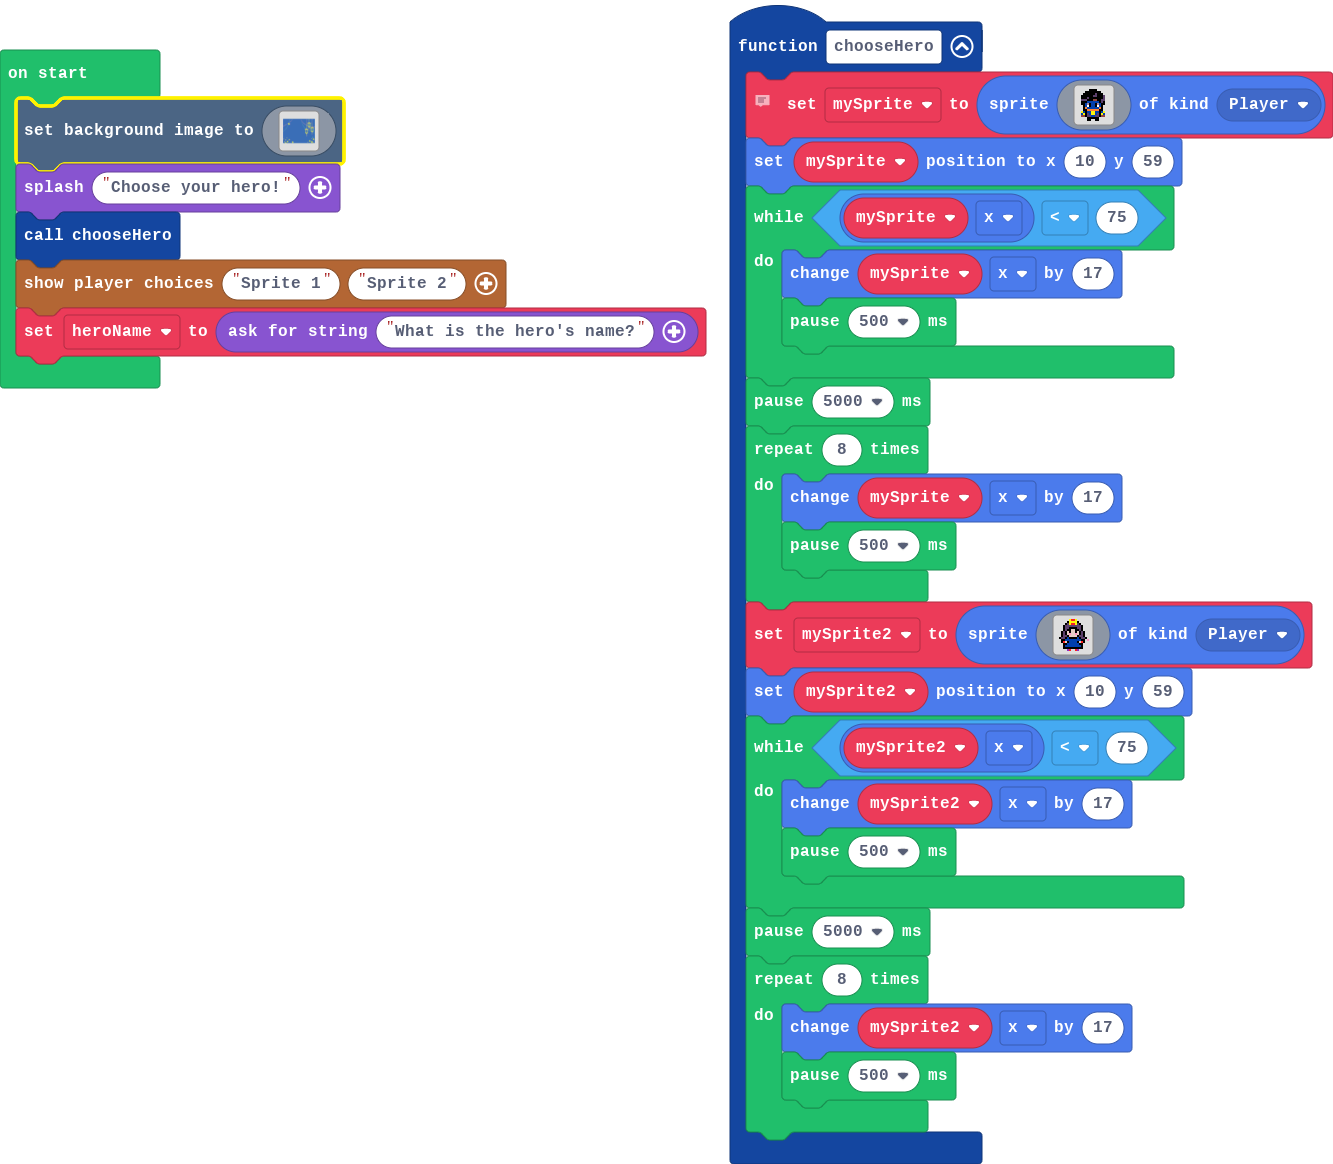
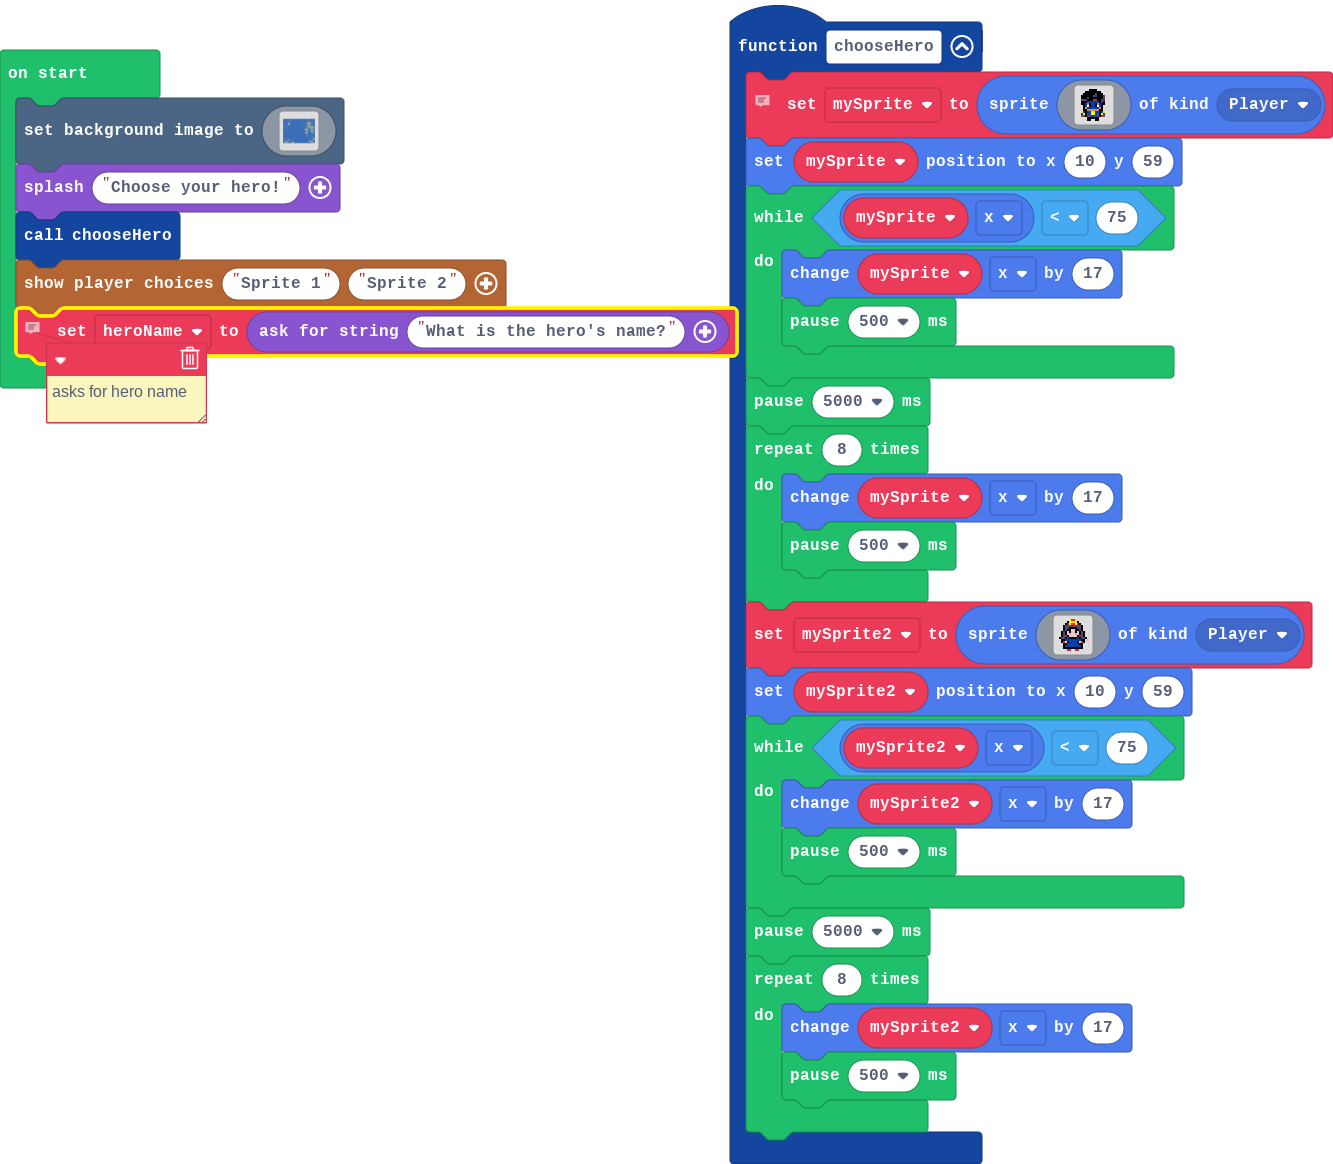
Update main.blocks, main.ts

Changed region(s): [[0.0, 0.2474, 0.5536, 0.3711], [0.0308, 0.0619, 0.2461, 0.0928]]

diff --git a/main.ts b/main.ts
@@ -184,4 +184,5 @@ scene.setBackgroundImage(img`
 game.splash("Choose your hero!")
 chooseHero()
 story.showPlayerChoices("Sprite 1", "Sprite 2")
+// asks for hero name
 let heroName = game.askForString("What is the hero's name?")
